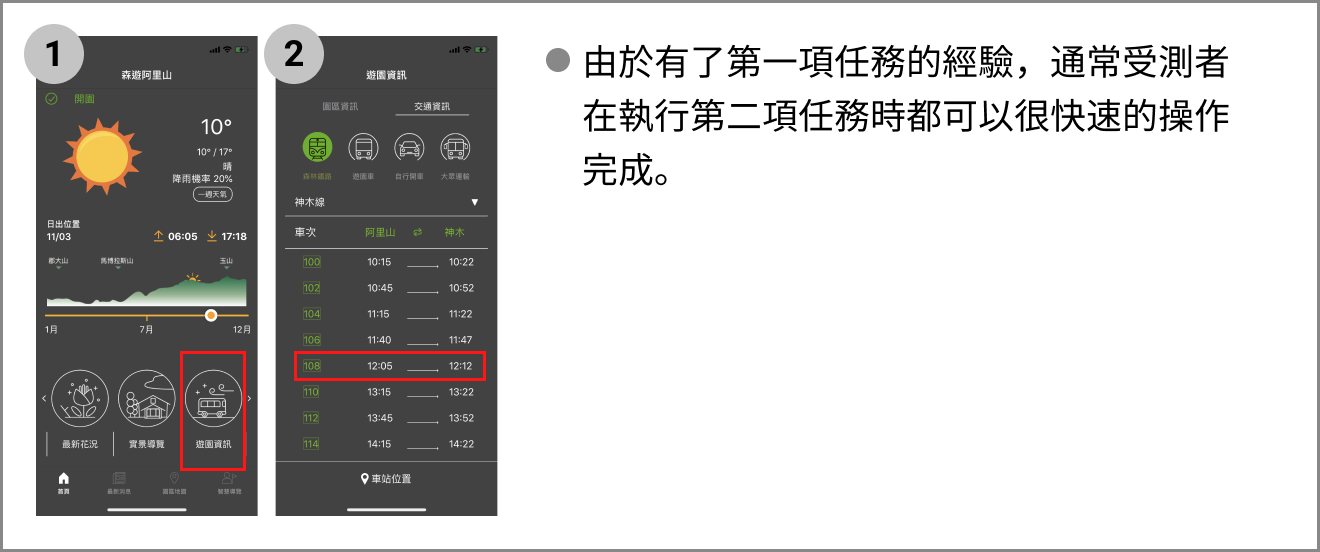
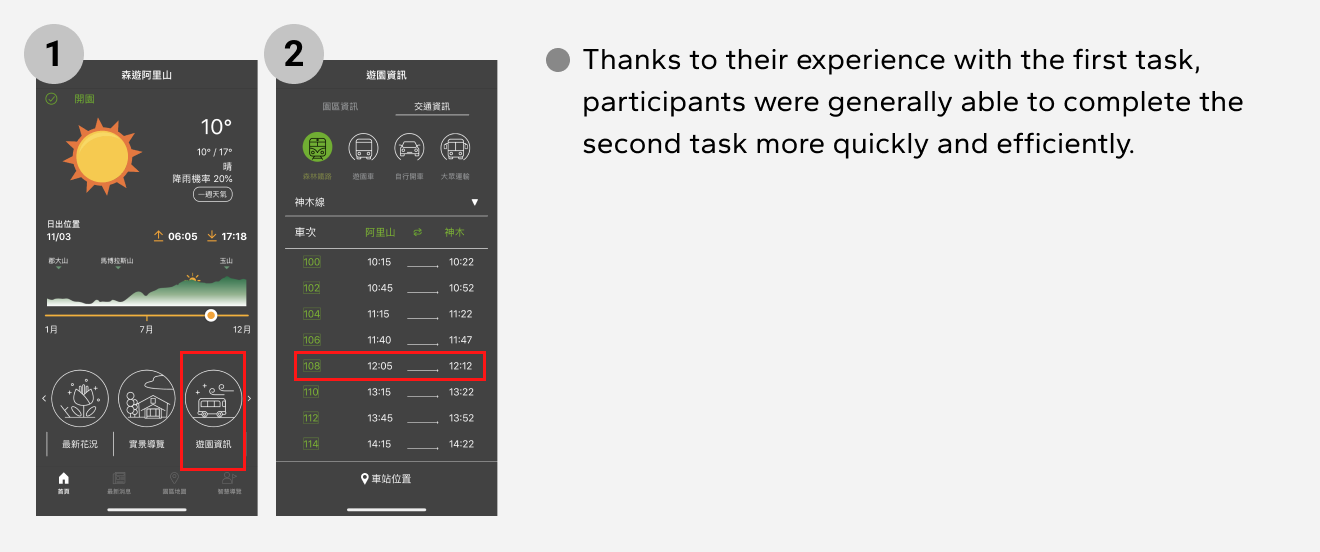
update

Changed region(s): [[0.4348, 0.0616, 0.9629, 0.3388], [0.0, 0.0, 1.0, 1.0], [0.0621, 0.0616, 0.4038, 0.1232]]

diff --git a/projects/alipedia.html b/projects/alipedia.html
@@ -52,6 +52,9 @@
           <li class="approach">
             <a class="nav-link" href="#approach">Approach</a>
           </li>
+          <li class="conclusion">
+            <a class="nav-link" href="#conclusion">Conclusion</a>
+          </li>
           <li class="to-top">
             <button
               onclick="topFunction()"
@@ -148,24 +151,30 @@
             <div class="sub-title">Design tasks</div>
             <div class="row tasks">
               <div class="col-md task">
-                <span class="task-title">任務一</span
-                ><span class="task-info">找到票價資訊</span>
+                <span class="task-title">Task 1</span
+                ><span class="task-info">Find fare information</span>
               </div>
               <div class="col-md task">
-                <span class="task-title">任務二</span
-                ><span class="task-info">找到鐵路班次</span>
+                <span class="task-title">Task 2</span
+                ><span class="task-info">Find rail schedules</span>
               </div>
               <div class="col-md task">
-                <span class="task-title">任務三</span
-                ><span class="task-info">找到特定日期日出時間</span>
+                <span class="task-title">Task 3</span
+                ><span class="task-info"
+                  >Find sunrise time on a specific date</span
+                >
+              </div>
+            </div>
+            <div class="row tasks">
+              <div class="col-md task">
+                <span class="task-title">Task 4</span
+                ><span class="task-info">Find the designated place</span>
               </div>
               <div class="col-md task">
-                <span class="task-title">任務四</span
-                ><span class="task-info">找到指定地點</span>
-              </div>
-              <div class="col-md task">
-                <span class="task-title">任務五</span
-                ><span class="task-info">找到指定花花期</span>
+                <span class="task-title">Task 5</span
+                ><span class="task-info"
+                  >Find the designated flower blooming period</span
+                >
               </div>
             </div>
           </div>
@@ -177,31 +186,56 @@
           </div>
           <div class="paragraph">
             <div class="sub-title">Data record</div>
-            <div>此次易用性測試將記錄以下數據：</div>
             <br />
-            <ul>
-              <li>受測者任務花費時間。</li>
-              <li>受測者完成進度。</li>
-              <li>受測者操作任務時點擊螢幕的次數。</li>
-              <li>受測者操作任務點擊失敗次數。</li>
-              <li>受測者對於此任務使用上的滿意程度。</li>
-            </ul>
+            <div class="row data-record">
+              <div class="col-md">
+                <i class="ph-duotone ph-clock-user"></i>
+                <span class="title">Task takes time</span>
+              </div>
+              <div class="col-md">
+                <i class="ph-duotone ph-kanban"></i>
+                <span class="title">Completion progress</span>
+              </div>
+              <div class="col-md">
+                <i class="ph-duotone ph-hand-tap"></i>
+                <span class="title">Screen click times</span>
+              </div>
+              <div class="col-md">
+                <i class="ph-duotone ph-x-circle"></i>
+                <span class="title">Number of failed clicks</span>
+              </div>
+              <div class="col-md">
+                <i class="ph-duotone ph-smiley"></i>
+                <span class="title">Satisfaction with task usage</span>
+              </div>
+            </div>
           </div>
           <div class="paragraph">
             <div class="sub-title">Evaluation index</div>
             <div>
               <ul>
-                <li>任務成功(Task Success)：受測者是否有完成任務。</li>
                 <li>
-                  任務錯誤(Task
-                  Failures)：受測者執行任務時的非預期錯誤，如錯過、按錯按
-                  鈕，導致任務失敗。在處理錯誤時，必須了解導致錯誤的前因後果，以利改善。
+                  <span style="font-weight: bold">Task Success:</span> <br />
+                  Whether participants successfully complete the task.
                 </li>
-                <li>任務時間(Workflow Time)：操作任務時所花費的時間。</li>
                 <li>
-                  滿意度(Task
-                  Rating)：受測者在操作任務時的滿意程度對於這次任務操作的評
-                  價。此項指標最後將使用五位受測者的分數以SUS量表計算出產品滿意度分數。
+                  <span style="font-weight: bold">Task Failures: </span
+                  ><br />Unexpected errors made by participants during task
+                  execution, such as missing steps or pressing the wrong button,
+                  leading to task failure. When addressing errors, it's
+                  essential to understand their causes to facilitate
+                  improvement.
+                </li>
+                <li>
+                  <span style="font-weight: bold">Workflow Time: </span
+                  ><br />The amount of time spent completing the task.
+                </li>
+                <li>
+                  <span style="font-weight: bold">Task Rating: </span><br />The
+                  participant's level of satisfaction during task execution.
+                  This is assessed using a SUS (System Usability Scale) score
+                  calculated from the ratings of five participants to determine
+                  overall product satisfaction.
                 </li>
               </ul>
             </div>
@@ -214,39 +248,61 @@
           <div class="paragraph">
             <div class="sub-title">Brief</div>
             <div>
-              主持人在受測者操作任務之前，須將下列指示明確地告訴受測者：
+              <span style="font-weight: bold"
+                >Before participants begin the tasks, the moderator must clearly
+                provide the following instructions:</span
+              >
               <br />
-              您好，我們將進行五項「森遊阿里山」APP易用性任務測試。我們將會詢問您的個人基本資料，並在您操作每項任務時錄影紀錄。另外在每項任務完成時，會詢問您10題關於操作任務時的滿意度，並期望能收到您在操作任務時的其他心得。
-              此次測試的目的是評估「森遊阿里山」APP的易用性，找出使用性問題及改善的地方。您不需要有使用過此APP的經驗或相關的知識，我們是在測試產品的易用性，並非測試您，請放輕鬆操作所有任務，謝謝您。
+              Hello, we will conduct usability testing for the "Senyou Alishan"
+              app, consisting of five tasks. We will ask for some basic personal
+              information and record your screen while you perform each task.
+              After completing each task, you will be asked 10 questions about
+              your satisfaction with the task, and we hope to hear any
+              additional thoughts you have during the process. The purpose of
+              this test is to evaluate the usability of the "Senyou Alishan" app
+              and identify areas for improvement. You do not need to have prior
+              experience with this app or related knowledge. Please remember
+              that we are testing the product's usability, not you. Feel free to
+              complete the tasks at your own pace. Thank you for participating!
             </div>
           </div>
           <div class="paragraph">
             <div class="sub-title">Testing and Record</div>
             <div class="tasks-record">
-              <div>測試任務一：「找到票價資訊」</div>
+              <div>Task 1:</div>
               <div>
-                找到票價資訊，選擇兩張全票、一張小型車，最後告訴主持人票價總計。
+                Find the ticket information, select two full tickets and one
+                small vehicle ticket, and calculate the total price.
               </div>
               <img src="/img/project/alipedia/appraoch/Task1.png" alt="" />
             </div>
             <div class="tasks-record">
-              <div>測試任務二：「找到鐵路班次」</div>
-              <div>假設現在時間12:00，可以搭乘森林鐵路哪一班車次。</div>
+              <div>Task 2:</div>
+              <div>
+                Assuming the current time is 12:00, determine which train
+                schedule for the forest railway is available.
+              </div>
               <img src="/img/project/alipedia/appraoch/Task2.png" alt="" />
             </div>
             <div class="tasks-record">
-              <div>測試任務三：「找到特定日期日出時間」</div>
-              <div>找到冬至(12/21)的日出時間。</div>
+              <div>Task 3:</div>
+              <div>
+                Locate the sunrise time for the Winter Solstice (12/21).
+              </div>
               <img src="/img/project/alipedia/appraoch/Task3.png" alt="" />
             </div>
             <div class="tasks-record">
-              <div>測試任務四：「找到指定地點」</div>
-              <div>在園區地圖中搜尋並找到青山別館。</div>
+              <div>Task 4:</div>
+              <div>
+                Search for and find "Qingshan Guesthouse" on the park map.
+              </div>
               <img src="/img/project/alipedia/appraoch/Task4.png" alt="" />
             </div>
             <div class="tasks-record">
-              <div>測試任務五：「找到指定花花期」</div>
-              <div>請找到「霧社山櫻花」的花期。</div>
+              <div>Task 5:</div>
+              <div>
+                Find the blooming period of "Wushe Mountain Cherry Blossoms."
+              </div>
               <img src="/img/project/alipedia/appraoch/Task5.png" alt="" />
             </div>
           </div>
@@ -269,11 +325,15 @@
               </ul>
             </div>
           </div>
+        </div>
+      </section>
+      <section class="section conclusion" id="conclusion">
+        <div class="container">
           <div class="paragraph">
-            <div class="sub-title">Result analysis and Conclusion</div>
-            <div>
-              本工作坊透過對導覽型APP的易用性操作任務測試，了解介面在引導使用者操作、資訊架構設計上，是否對使用者友善，並依結果提供修改建議。
-            </div>
+            <div class="section-title">Result analysis and Conclusion</div>
+          </div>
+          <div class="paragraph">
+            本工作坊透過對導覽型APP的易用性操作任務測試，了解介面在引導使用者操作、資訊架構設計上，是否對使用者友善，並依結果提供修改建議。
           </div>
         </div>
       </section>

diff --git a/css/sub-css/project-page/page-alipedia.css b/css/sub-css/project-page/page-alipedia.css
@@ -34,24 +34,42 @@ body.page-alipedia .work-container .section.process .process-note {
 body.page-alipedia .work-container .section.approach {
   background-color: #fff;
 }
-body.page-alipedia .work-container .section.approach .paragraph .tasks {
+body.page-alipedia .work-container .section.approach .paragraph .tasks,
+body.page-alipedia .work-container .section.approach .paragraph .data-record {
   display: flex;
-  gap: 0.8rem;
+  gap: 0.5rem;
   margin: 0;
+  margin-bottom: 0.5rem;
 }
-body.page-alipedia .work-container .section.approach .paragraph .tasks .task {
+body.page-alipedia .work-container .section.approach .paragraph .tasks .task,
+body.page-alipedia .work-container .section.approach .paragraph .data-record .task {
   font-size: 1rem;
   background-color: #eeeeee;
   padding: 0.5rem;
   border-radius: 0.5rem;
 }
-body.page-alipedia .work-container .section.approach .paragraph .tasks .task .task-title {
+body.page-alipedia .work-container .section.approach .paragraph .tasks .task .task-title,
+body.page-alipedia .work-container .section.approach .paragraph .data-record .task .task-title {
   display: block;
   font-size: 0.8rem;
   font-weight: bold;
 }
 body.page-alipedia .work-container .section.approach .paragraph .tasks-record {
   margin-bottom: 2rem;
+}
+body.page-alipedia .work-container .section.approach .paragraph img {
+  border-radius: 0.5rem;
+}
+body.page-alipedia .work-container .section.approach .paragraph .data-record {
+  text-align: center;
+}
+body.page-alipedia .work-container .section.approach .paragraph .data-record .title {
+  display: block;
+  font-size: 0.8rem;
+  font-weight: bold;
+}
+body.page-alipedia .work-container .section.approach .paragraph .data-record i::before, body.page-alipedia .work-container .section.approach .paragraph .data-record i::after {
+  font-size: 3rem;
 }
 body.page-alipedia .work-container .section.conclusion {
   background-color: #eeeeee;

diff --git a/css/sub-css/project-page/page-alipedia.scss b/css/sub-css/project-page/page-alipedia.scss
@@ -41,10 +41,12 @@ body.page-alipedia {
       &.approach {
         background-color: #fff;
         .paragraph {
-          .tasks {
+          .tasks,
+          .data-record {
             display: flex;
-            gap: 0.8rem;
+            gap: 0.5rem;
             margin: 0;
+            margin-bottom: 0.5rem;
             .task {
               font-size: 1rem;
               background-color: $main-light;
@@ -59,6 +61,23 @@ body.page-alipedia {
           }
           .tasks-record {
             margin-bottom: 2rem;
+          }
+          img {
+            border-radius: 0.5rem;
+          }
+          .data-record {
+            text-align: center;
+            .title {
+              display: block;
+              font-size: 0.8rem;
+              font-weight: bold;
+            }
+            i {
+              &::before,
+              &::after {
+                font-size: 3rem;
+              }
+            }
           }
         }
       }
